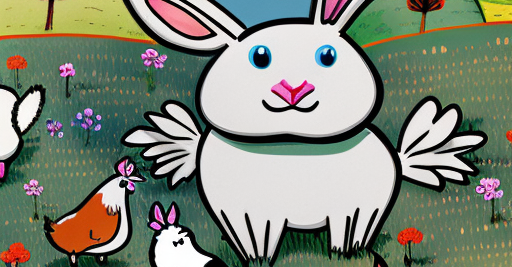
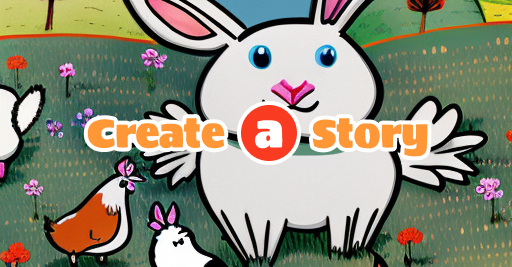
add thumbnail

Changed region(s): [[0.1562, 0.3596, 0.8438, 0.6292]]

diff --git a/client/index.html b/client/index.html
@@ -6,7 +6,7 @@
     <meta name="viewport" content="width=device-width, initial-scale=1.0" />
     <meta property='og:title' content='Create a Story'/>
     <meta property='og:image' content='https://creatastory.vercel.app/website_thumb.png'/>
-    <meta property='og:description' content='AI generative children’s storybook'/>
+    <meta property='og:description' content="Make your own AI generative Children's storybook with one click."/>
     <meta property='og:image:width' content='512' />
     <meta property='og:image:height' content='267' />
     <title>Create a Story</title>
